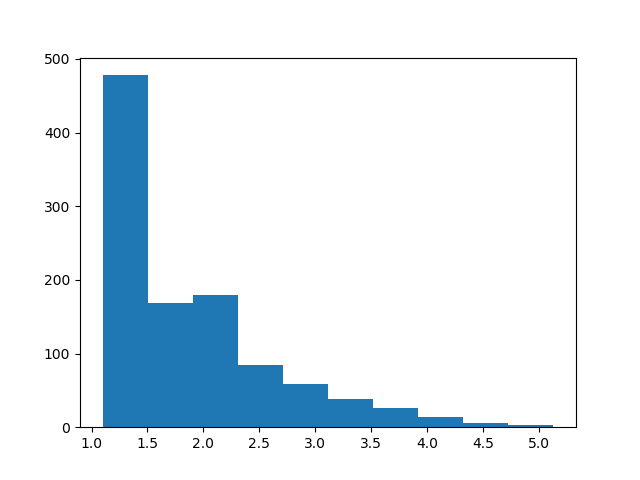
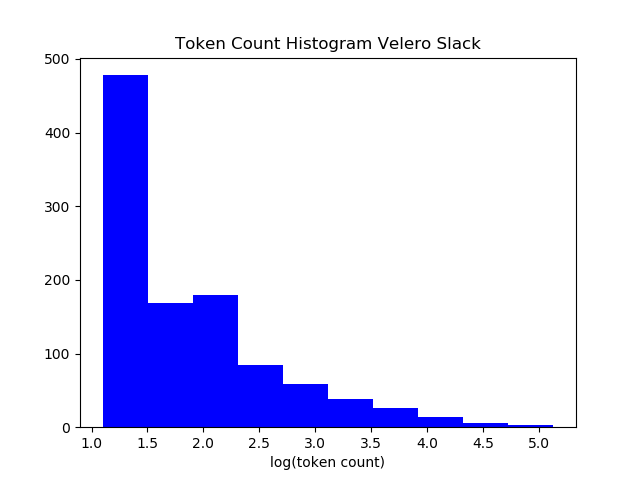
Adds wordcloud and labels to histogram

Changed region(s): [[0.1562, 0.1562, 0.8438, 0.9062], [0.2812, 0.0625, 0.75, 0.125], [0.4062, 0.9375, 0.5938, 1.0]]

diff --git a/src/main/resources/templates/blogpost4.html b/src/main/resources/templates/blogpost4.html
@@ -4,7 +4,7 @@
     <h1>Slack Message Clustering For Kubernetes Support Community</h1>
     <p>Created:
         <strong>June 30, 2020</strong></p>
-    <p>Last Modified: <strong>July 3, 2020</strong></p>
+    <p>Last Modified: <strong>July 5, 2020</strong></p>
 </header>
 <div>An analysis of messages sent to '#velero' channel in kubernetes slack
     with the goal of identifying any clustering and extracting FAQs.
@@ -326,6 +326,27 @@
             </code>
         </pre>
     </figure>
-    <img class="toptokenshist ginaimg" src="/images/ngram_count_hist.png" alt="List of Top Tokens for Dataset">
+    <img class="toptokenshist ginaimg" src="/images/ngram_count_hist.png" alt="Token Count Histogram">
+    <p>
+        Another common way to visualize common tokens is using a wordcloud. Token size corresponds to count.
+    </p>
+    <figure class="code-snippet-fig">
+        <pre>
+            <code class="language-py code-snippet" contenteditable spellcheck="false">
+            text = " ".join(message for message in analyzer.combined_messages.message)
+            from wordcloud import WordCloud, STOPWORDS, ImageColorGenerator
+            stopwords = set(STOPWORDS)
+            stopwords.update(["velero", "backup", "hi", "hello", "hey", "use", "yeah"])
+            wordcloud = WordCloud(max_font_size=40,
+                                  max_words=80,
+                                  background_color="white",
+                                 stopwords=stopwords).generate(text)
+            plt.imshow(wordcloud, interpolation='bilinear')
+            plt.axis("off")
+            plt.show()
+            </code>
+        </pre>
+    </figure>
+    <img class="wordcloud ginaimg" src="/images/velero_wordcloud.png" alt="Token Count Wordcloud">
 </section>
 {{> footer}}

diff --git a/src/main/resources/static/css/styles.css b/src/main/resources/static/css/styles.css
@@ -22,6 +22,10 @@ a:visited {
     width: 50%;
 }
 
+.wordcloud {
+    width: 70%;
+}
+
 .code-snippet-fig{
     width: 80%;
     height: auto;
